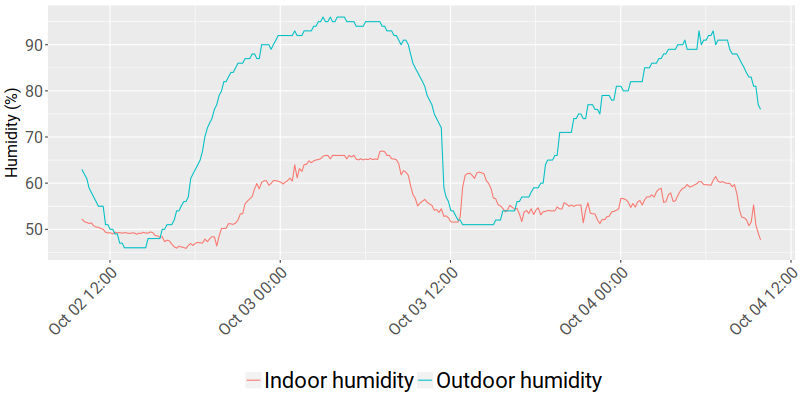
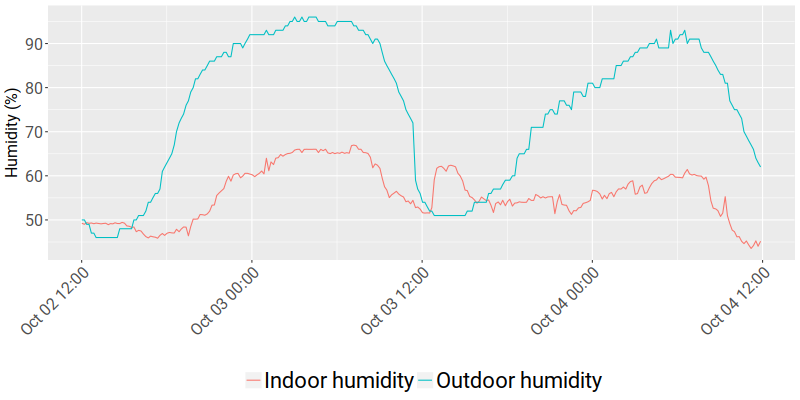
Update live temperature on site

diff --git a/temperature.js b/temperature.js
@@ -1,1 +1,1 @@
-document.write("<h4>Inside Temperature: 21.0°C</h4><h4>Outside Temperature: 14.81°C</h4><h4>Fermenter 1 Temperature: 17.06°C</h4><h4>Fermenter 2 Temperature: 18.13°C</h4><h4>Inside Humidity: 47.7%</h4><h4>Outside Humidity: 76.0%</h4><br>Last update: 2017-10-04 09:51:22");
+document.write("<h4>Inside Temperature: 23.22°C</h4><h4>Outside Temperature: 19.95°C</h4><h4>Fermenter 1 Temperature: 17.56°C</h4><h4>Fermenter 2 Temperature: 18.69°C</h4><h4>Inside Humidity: 45.17%</h4><h4>Outside Humidity: 62.0%</h4><br>Last update: 2017-10-04 11:51:32");
